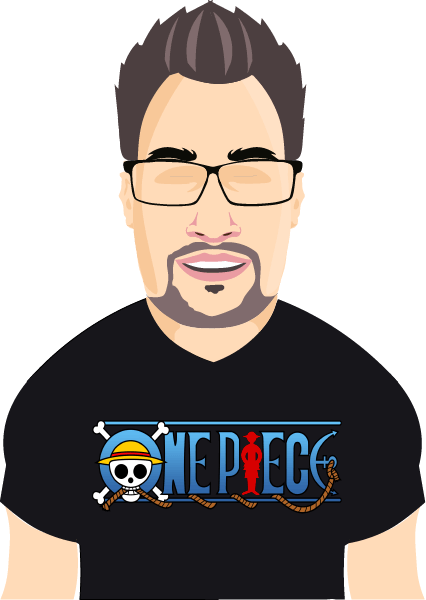
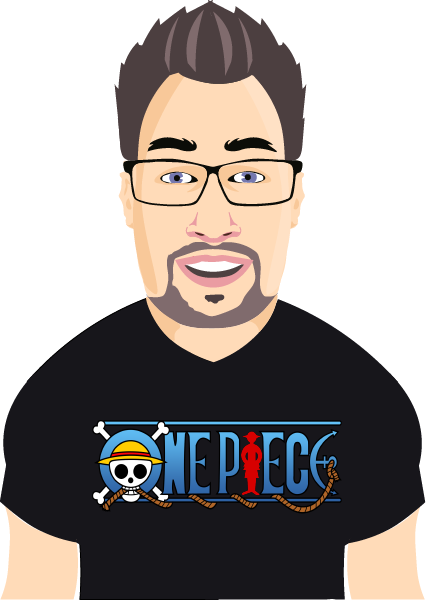
Adding the happy images

Changed region(s): [[0.5188, 0.21, 0.6714, 0.33], [0.4272, 0.42, 0.5798, 0.51], [0.3357, 0.21, 0.4883, 0.33]]

diff --git a/src/Containers/Questions/Questions.js b/src/Containers/Questions/Questions.js
@@ -36,9 +36,14 @@ class Questions extends Component {
             setMood,
             setSound,
         } = this.props;
-        const subsequentConversations = conversations[
+        let subsequentConversations = conversations[
             personality
         ].conversations.filter(conversation => conversation.parentId === id);
+
+      if (subsequentConversations.length === 0) {
+
+      }
+
         if (subsequentConversations.length > 0) {
             delay(0, () => {
                 setQuestion(question);
@@ -61,7 +66,7 @@ class Questions extends Component {
                     setMood(mood);
                     setSound(null);
                 })
-                .delay(5000, () => {
+                .delay(7000, () => {
                     setQuestion(null);
                     setCurrentConversation(subsequentConversations);
                     setAnswer(null);

diff --git a/src/Assets/FlamencoGuitar/index.js b/src/Assets/FlamencoGuitar/index.js
@@ -5,8 +5,16 @@ import Blinking3 from './Blinking/3.png'
 import Blinking4 from './Blinking/4.png'
 import Background from './Background/1.jpg'
 
+
+import Happy1 from './Happy/1.png'
+import Happy2 from './Happy/2.png'
+import Happy3 from './Happy/3.png'
+import Happy4 from './Happy/4.png'
+
 export default {
   Normal,
   Background,
-  Blinking: [Blinking1, Blinking2, Blinking3, Blinking4]
+  Blinking: [Blinking1, Blinking2, Blinking3, Blinking4],
+  Happy: [Happy1, Happy2, Happy3, Happy4]
+
 }

diff --git a/src/Assets/Anime/index.js b/src/Assets/Anime/index.js
@@ -5,8 +5,15 @@ import Blinking3 from './Blinking/3.png'
 import Blinking4 from './Blinking/4.png'
 import Background from './Background/1.jpg'
 
+
+import Happy1 from './Happy/1.png'
+import Happy2 from './Happy/2.png'
+import Happy3 from './Happy/3.png'
+import Happy4 from './Happy/4.png'
+
 export default {
   Normal,
   Background,
-  Blinking: [Blinking1, Blinking2, Blinking3, Blinking4]
+  Blinking: [Blinking1, Blinking2, Blinking3, Blinking4],
+  Happy: [Happy1, Happy2, Happy3, Happy4]
 }

diff --git a/src/Assets/MetalMusic/index.js b/src/Assets/MetalMusic/index.js
@@ -5,8 +5,15 @@ import Blinking3 from './Blinking/3.png'
 import Blinking4 from './Blinking/4.png'
 import Background from './Background/1.jpg'
 
+
+import Happy1 from './Happy/1.png'
+import Happy2 from './Happy/2.png'
+import Happy3 from './Happy/3.png'
+import Happy4 from './Happy/4.png'
+
 export default {
   Normal,
   Background,
-  Blinking: [Blinking1, Blinking2, Blinking3, Blinking4]
+  Blinking: [Blinking1, Blinking2, Blinking3, Blinking4],
+  Happy: [Happy1, Happy2, Happy3, Happy4]
 }

diff --git a/src/Assets/MultiplayerGames/index.js b/src/Assets/MultiplayerGames/index.js
@@ -5,8 +5,14 @@ import Blinking3 from './Blinking/3.png'
 import Blinking4 from './Blinking/4.png'
 import Background from './Background/1.jpg'
 
+import Happy1 from './Happy/1.png'
+import Happy2 from './Happy/2.png'
+import Happy3 from './Happy/3.png'
+import Happy4 from './Happy/4.png'
+
 export default {
   Normal,
   Background,
-  Blinking: [Blinking1, Blinking2, Blinking3, Blinking4]
+  Blinking: [Blinking1, Blinking2, Blinking3, Blinking4],
+  Happy: [Happy1, Happy2, Happy3, Happy4]
 }

diff --git a/src/Assets/Professional/index.js b/src/Assets/Professional/index.js
@@ -5,8 +5,14 @@ import Blinking3 from './Blinking/3.png'
 import Blinking4 from './Blinking/4.png'
 import Background from './Background/1.jpg'
 
+import Happy1 from './Happy/1.png'
+import Happy2 from './Happy/2.png'
+import Happy3 from './Happy/3.png'
+import Happy4 from './Happy/4.png'
+
 export default {
   Normal,
   Background,
-  Blinking: [Blinking1, Blinking2, Blinking3, Blinking4]
+  Blinking: [Blinking1, Blinking2, Blinking3, Blinking4],
+  Happy: [Happy1, Happy2, Happy3, Happy4]
 }
